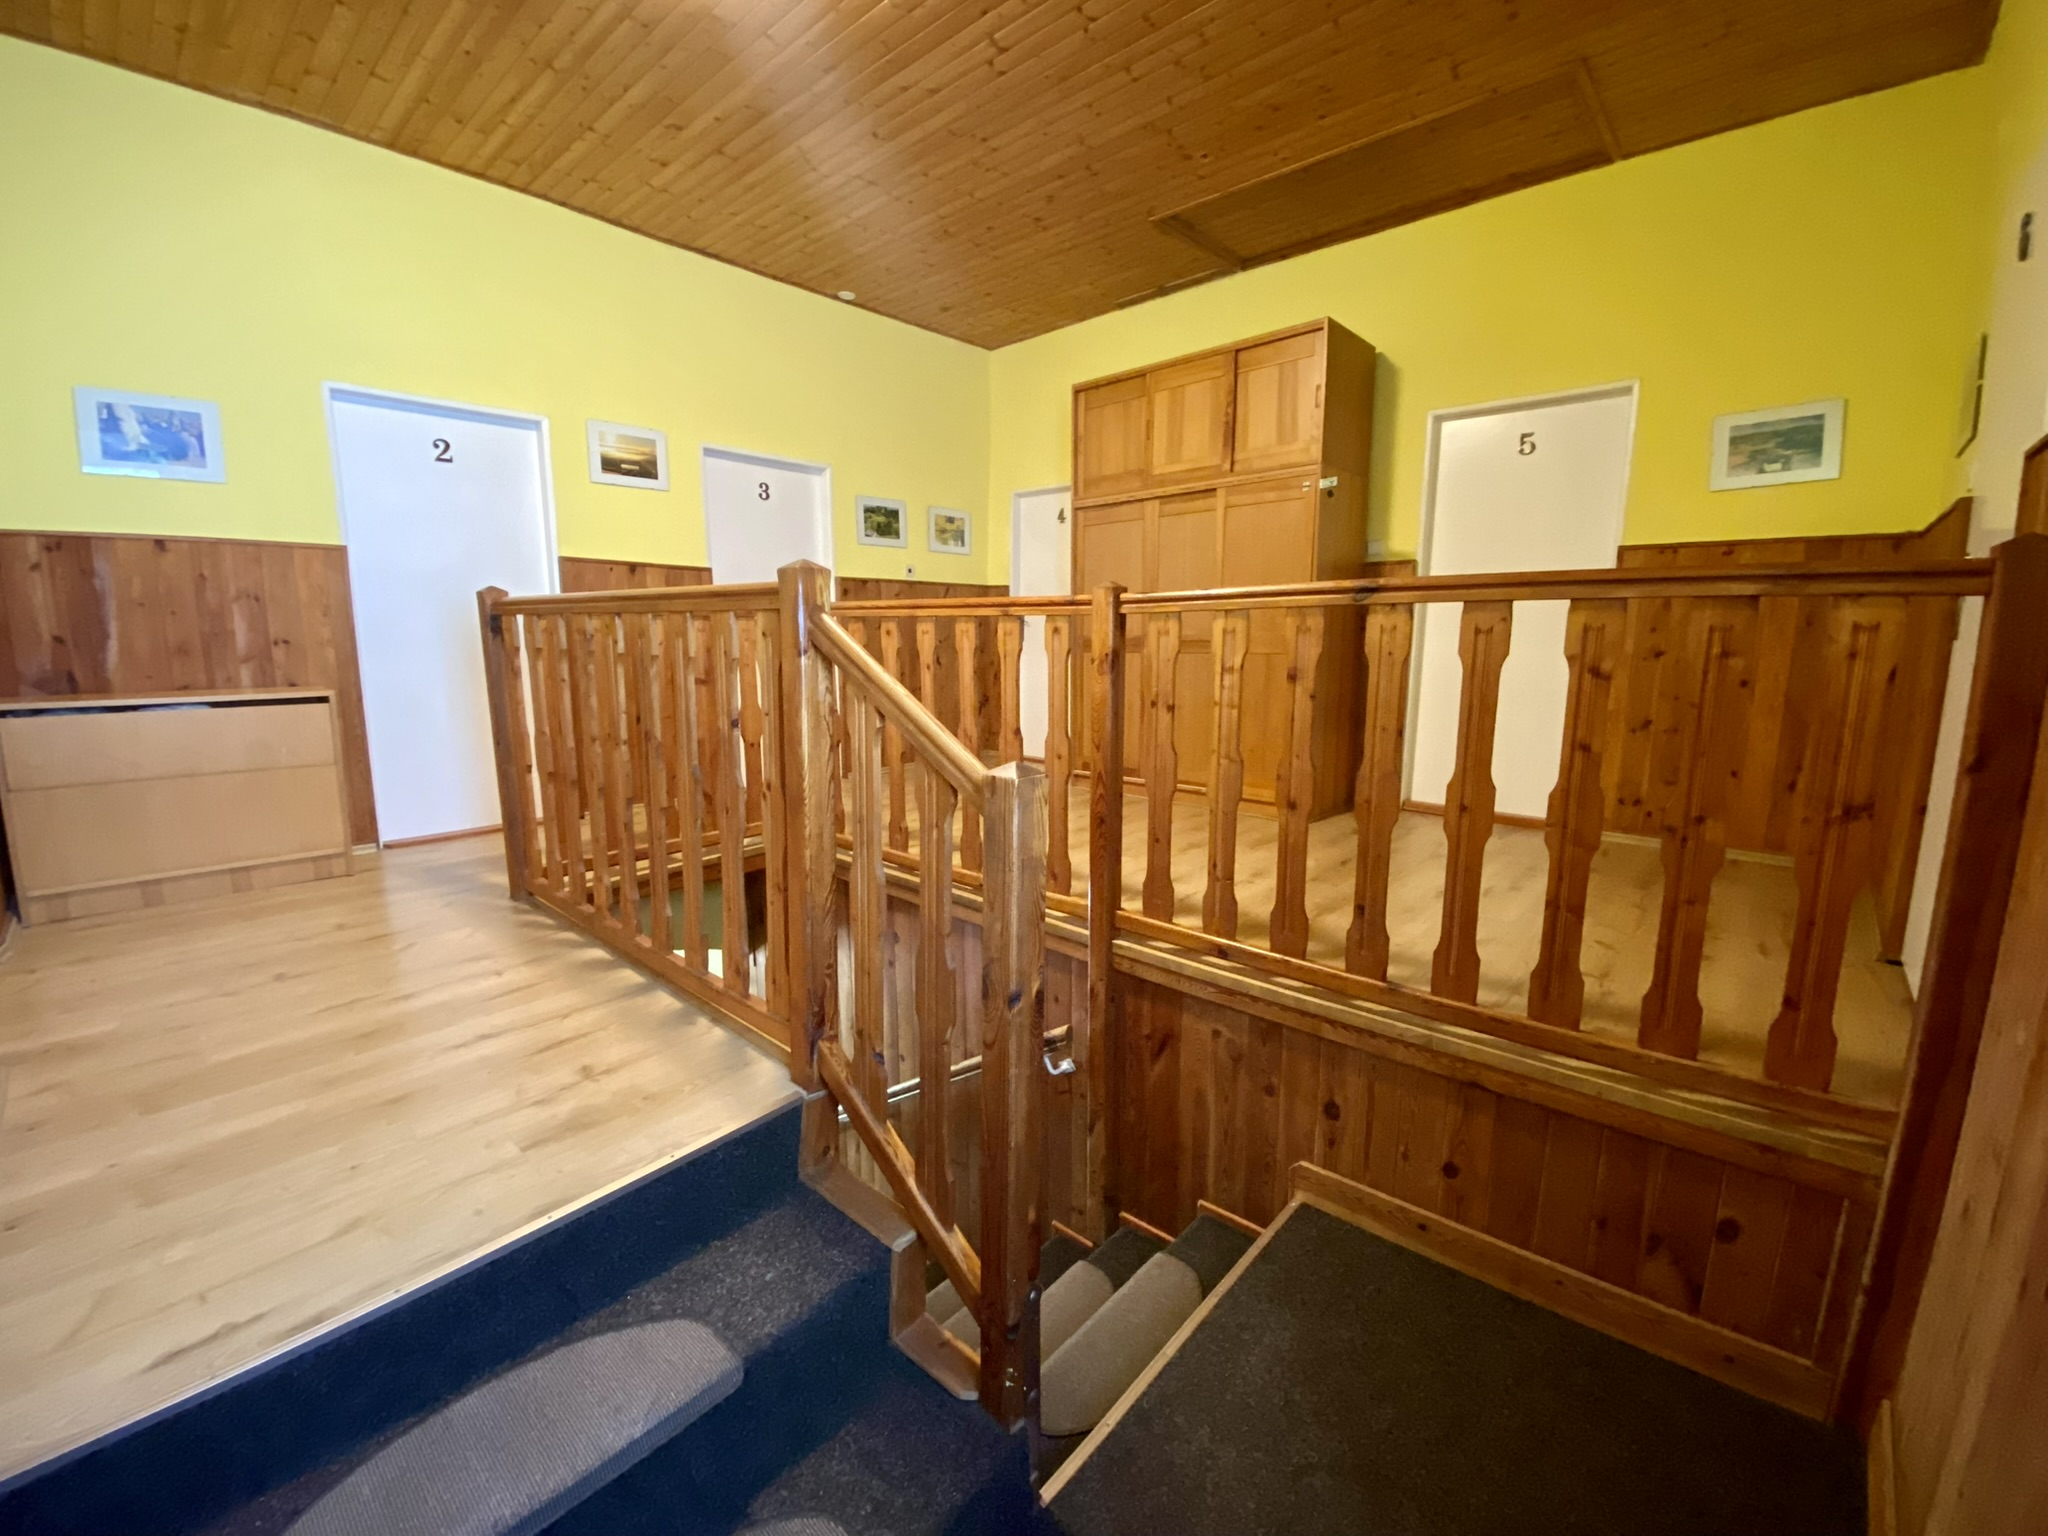
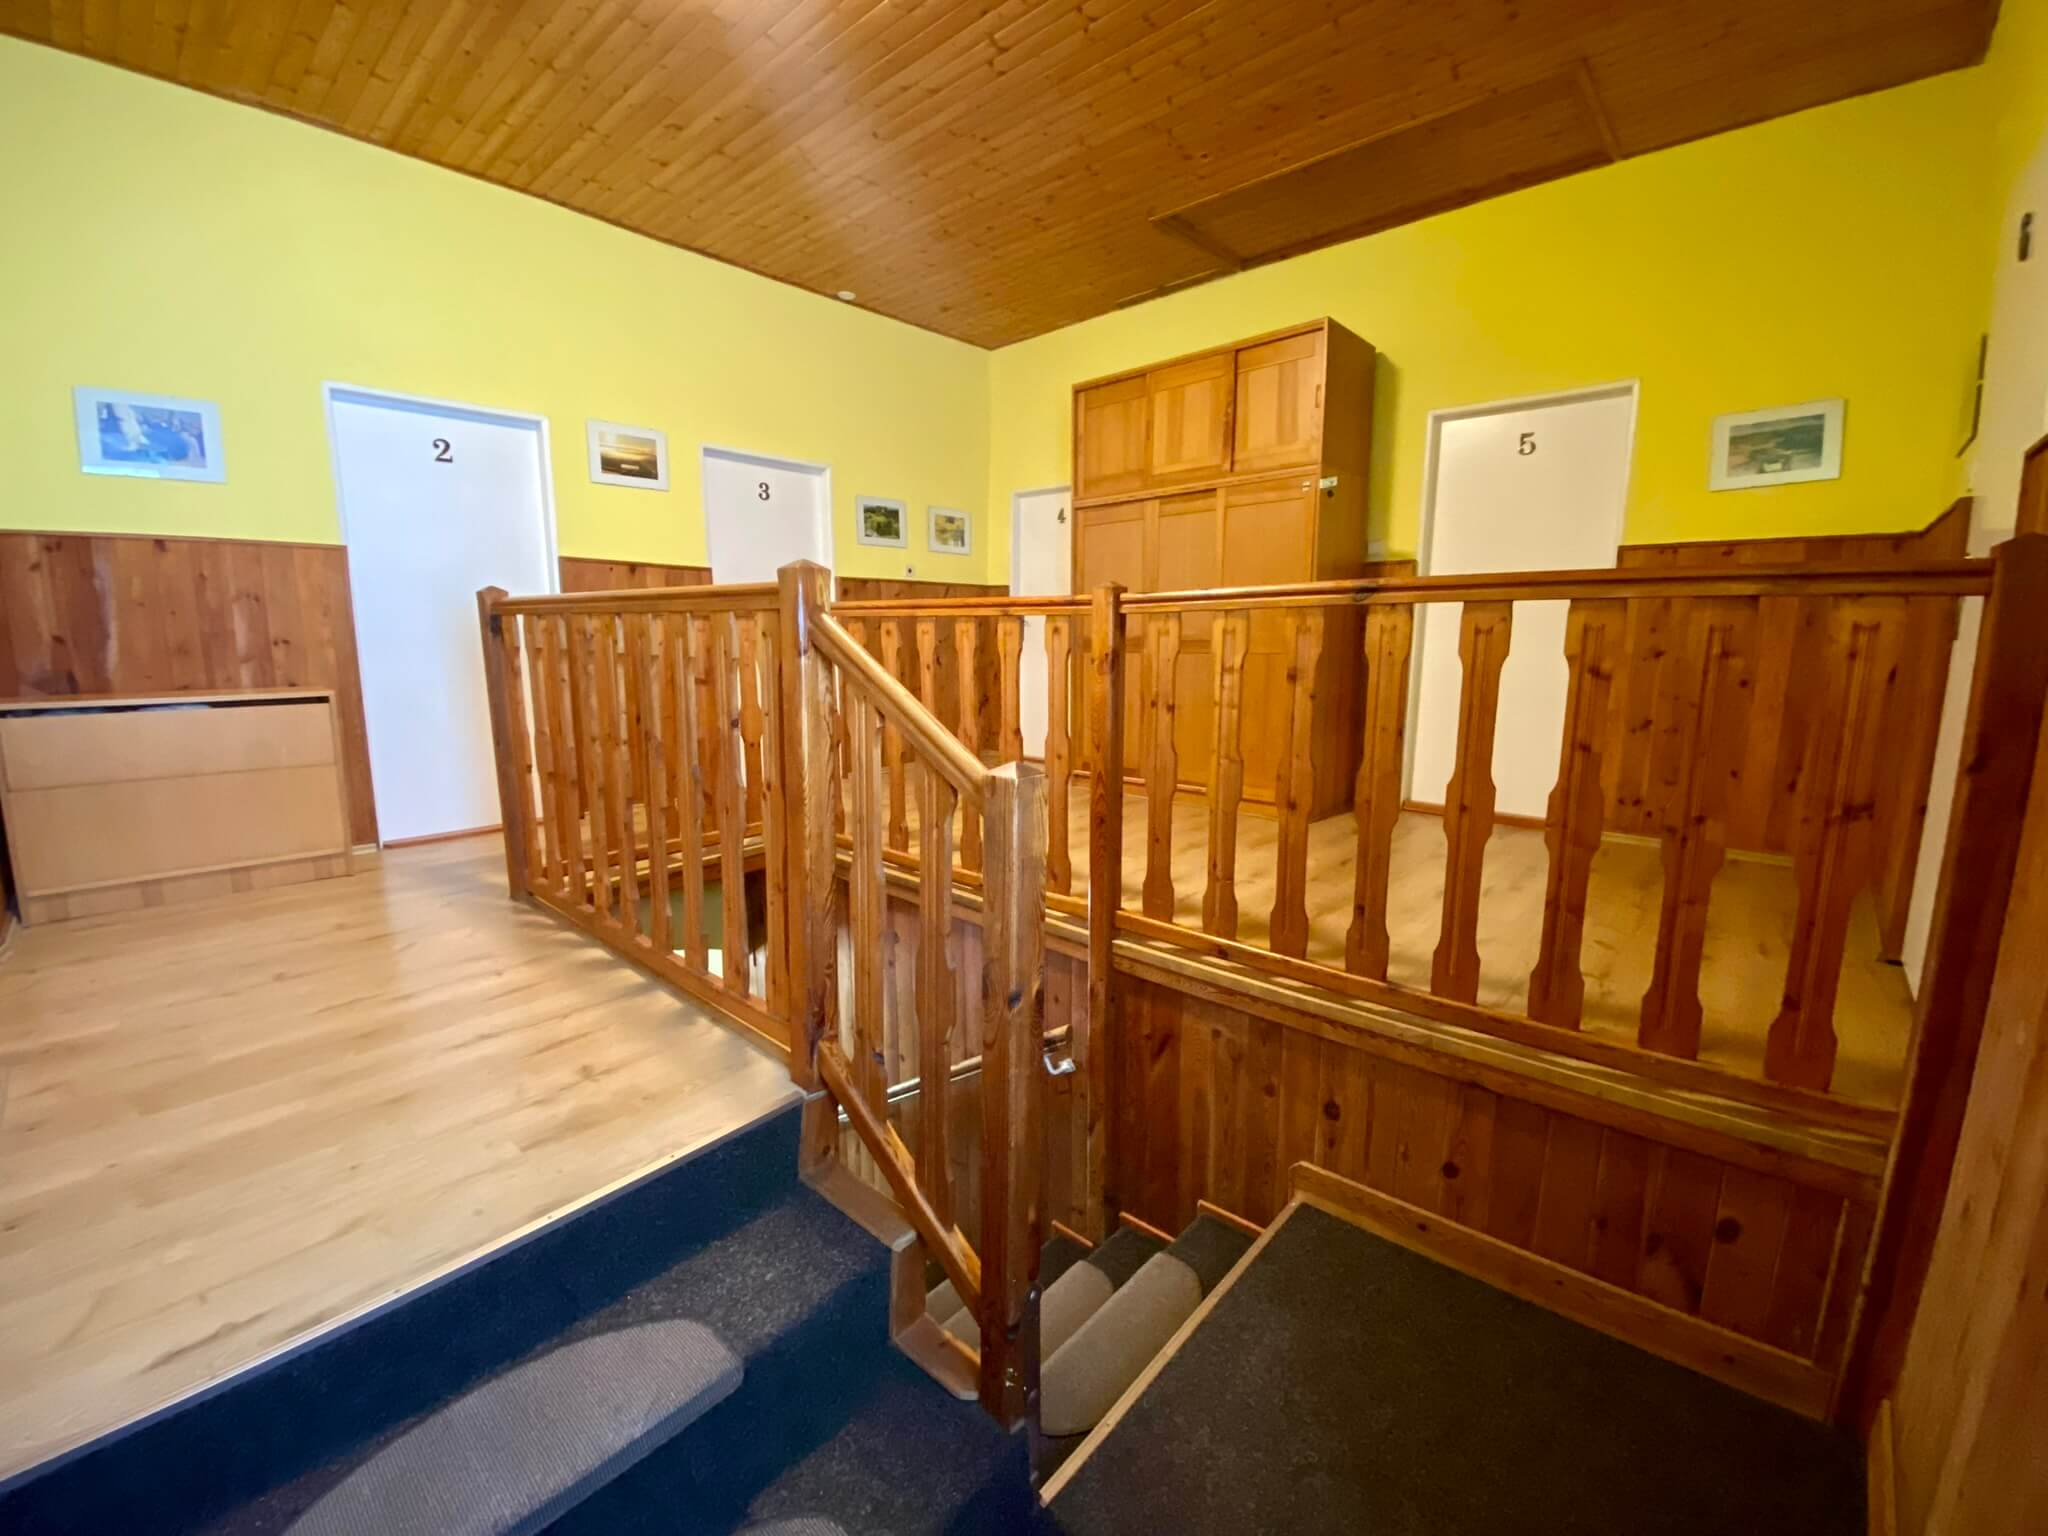
změna barvy tlačítka kontakt; oprava stránky kontakt (responzivita); komprimace oprázků v galerii

diff --git a/styl.css b/styl.css
@@ -32,6 +32,7 @@ body {
     padding: 70px 0px 0px 0px;
 }
 
+
 body > header {
     position: fixed;
     top: 0;
@@ -63,7 +64,7 @@ article h1 {
     font-size: 2.3em;
     font-weight: bold;
     text-transform: uppercase;
-    border-bottom: 4px solid #B22222;
+    border-bottom: 4px solid #cb6d51;
     width: max-content;
 }
 
@@ -110,28 +111,15 @@ article {
     clear: both;
 }
 
-.reference-tlacitko {
-    background: #70b73a;
-    color: white;
-    font-size: 0.9em;
-    text-transform: uppercase;
-    text-decoration: none;
-    padding: 12px 25px;
-    border-radius: 25px;
-}
 
 .kontakt-tlacitko{
-    background: #B22222;
+    background: #cb6d51;
     padding: 5px 5px;
     border-radius: 5px;
 }
 
 .kontakt-tlacitko:hover,
 
-.reference-tlacitko:hover {
-    filter: brightness(115%) contrast(85%);
-    border: 0;
-}
 
 .vlevo{
     float: right;
@@ -147,7 +135,31 @@ article {
     font-weight: bold;
 }
 .kontakt {
-   padding-bottom: 30px;
+    padding-bottom: 30px;
+    max-width: 100%;
+    box-sizing: border-box;
+}
+
+
+.kontakt iframe {
+    width: 100%;
+    max-width: 100%;
+    height: 300px;
+    border: 0;
+}
+
+.map-wrapper {
+    position: relative;
+    width: 100%;
+    padding-top: 56.25%;
+    /* 16:9 */
+}
+
+.map-wrapper iframe {
+    position: absolute;
+    inset: 0;
+    width: 100%;
+    height: 100%;
 }
 
 
@@ -237,7 +249,7 @@ nav ul a {
   }
 
 nav ul a:hover, .aktivni a {
-    border-bottom: 2px solid #B22222;
+    border-bottom: 2px solid #cb6d51;
 }
 
 .welcome {
@@ -347,6 +359,10 @@ footer a {
     #logo small {
         display: none;
     }
+    .email-ikona {
+        display: flex;
+        justify-content: center;
+    }
    .welcome {
     height: 300px;             /* Snížení výšky, aby vynikl obsah pod tím */
     background-attachment: scroll; /* Vypnutí fixního pozadí (pro lepší podporu na mobilech) */
@@ -379,7 +395,7 @@ body > header:has(nav.open) {
 }
 
 .lang-switch a.active {
-    border-bottom: 2px solid #B22222;
+    border-bottom: 2px solid #cb6d51;
     font-weight: bold;
 }
 

diff --git a/kontakt.html b/kontakt.html
@@ -45,8 +45,10 @@
             <p class="kontakt">Dotaz na ubytování na tel: <b>+420 603 355 325</b>  nebo  e-mail: <strong>u.mustku@seznam.cz</strong> 
             </p>
             
-            <img src="img/email_color.png" alt="email" class="vlevo"/>
-           
+            <div class="email-ikona">
+                <img src="img/email_color.png" alt="email" class="vlevo"/>
+            </div>
+
             <p class="centrovany">
                 <h2>Kontaktní formulář</h2>
                 <iframe frameborder="0" scrolling="no" width="500px" height="220px"
@@ -56,8 +58,11 @@
 
             <div class="mapa">
                 <h2>Kde nás najdete</h2>
-                <iframe src="https://www.google.com/maps/embed?pb=!1m18!1m12!1m3!1d2544.2256434849924!2d12.82567947704608!3d50.38099207157903!2m3!1f0!2f0!3f0!3m2!1i1024!2i768!4f13.1!3m3!1m2!1s0x47a0bd7883589cdd%3A0xf9ab11f6e1065f6f!2zQ2hhbHVwYSBVIE3Fr3N0a3UgSMWZZWJlxI1uw6EgMjc!5e0!3m2!1scs!2scz!4v1767903727682!5m2!1scs!2scz" width="960" height="350" style="border:0;" allowfullscreen="" loading="lazy" referrerpolicy="no-referrer-when-downgrade">
-                </iframe></div>
+                <div class="map-wrapper">
+                     <iframe src="https://www.google.com/maps/embed?pb=!1m18!1m12!1m3!1d2544.2256434849924!2d12.82567947704608!3d50.38099207157903!2m3!1f0!2f0!3f0!3m2!1i1024!2i768!4f13.1!3m3!1m2!1s0x47a0bd7883589cdd%3A0xf9ab11f6e1065f6f!2zQ2hhbHVwYSBVIE3Fr3N0a3UgSMWZZWJlxI1uw6EgMjc!5e0!3m2!1scs!2scz!4v1767903727682!5m2!1scs!2scz" width="960" height="350" style="border:0;" allowfullscreen="" loading="lazy" referrerpolicy="no-referrer-when-downgrade">      
+                    </iframe>
+                </div>
+            </div>
         </section>
         <div class="cistic"></div>
     </article>

diff --git a/galerie_de.html b/galerie_de.html
@@ -47,7 +47,7 @@
         </header>
 
         <section>
-            <p>UUnterkunft und Umgebung des Ferienhauses</p>
+            <p>Unterkunft und Umgebung des Ferienhauses</p>
             
             <div id="chalupa">
                 <a href="img/aparman_palandy.JPEG" title="Apartmán palandy" rel="lightbox[Chalupa]">
